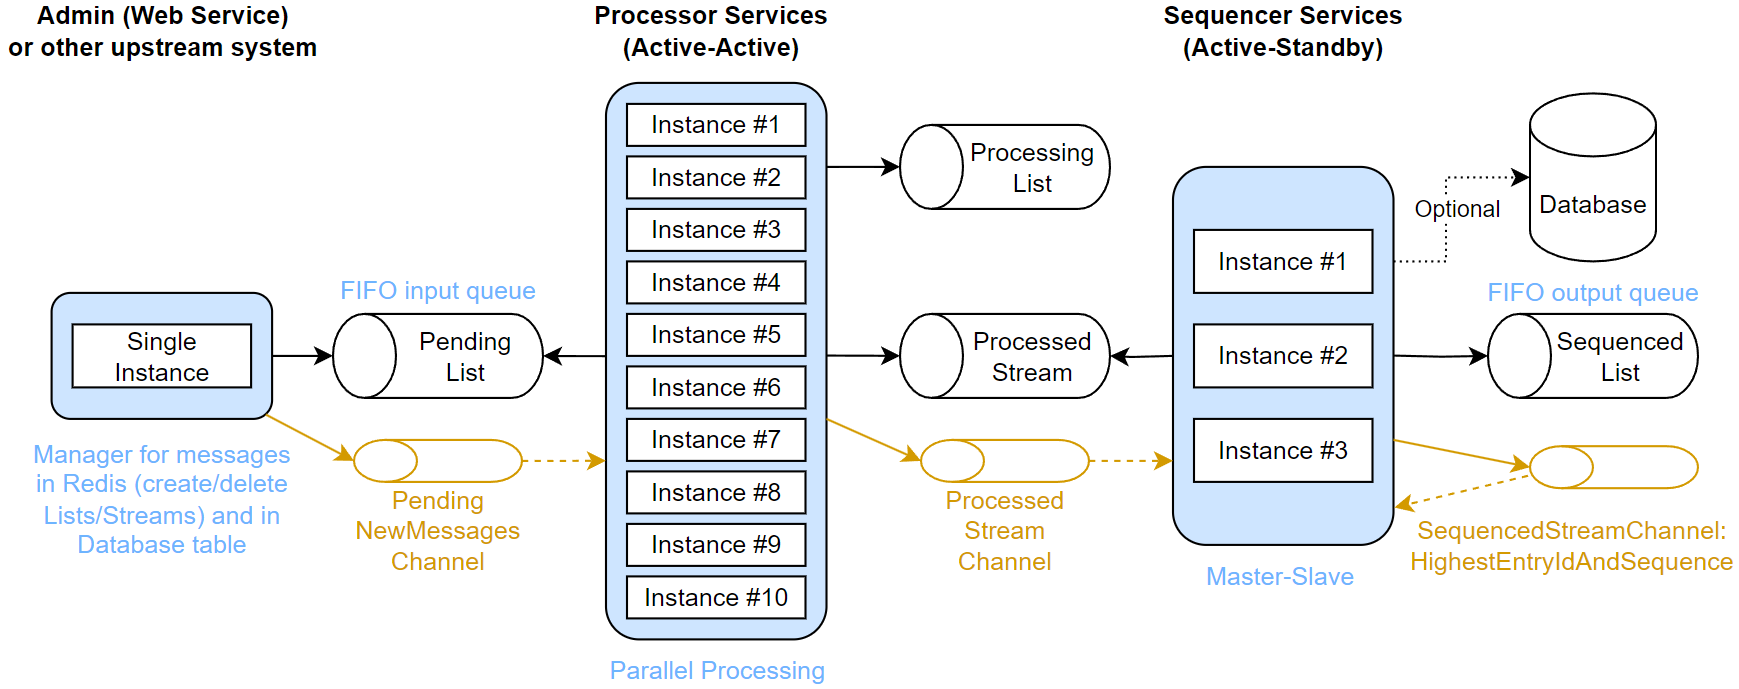
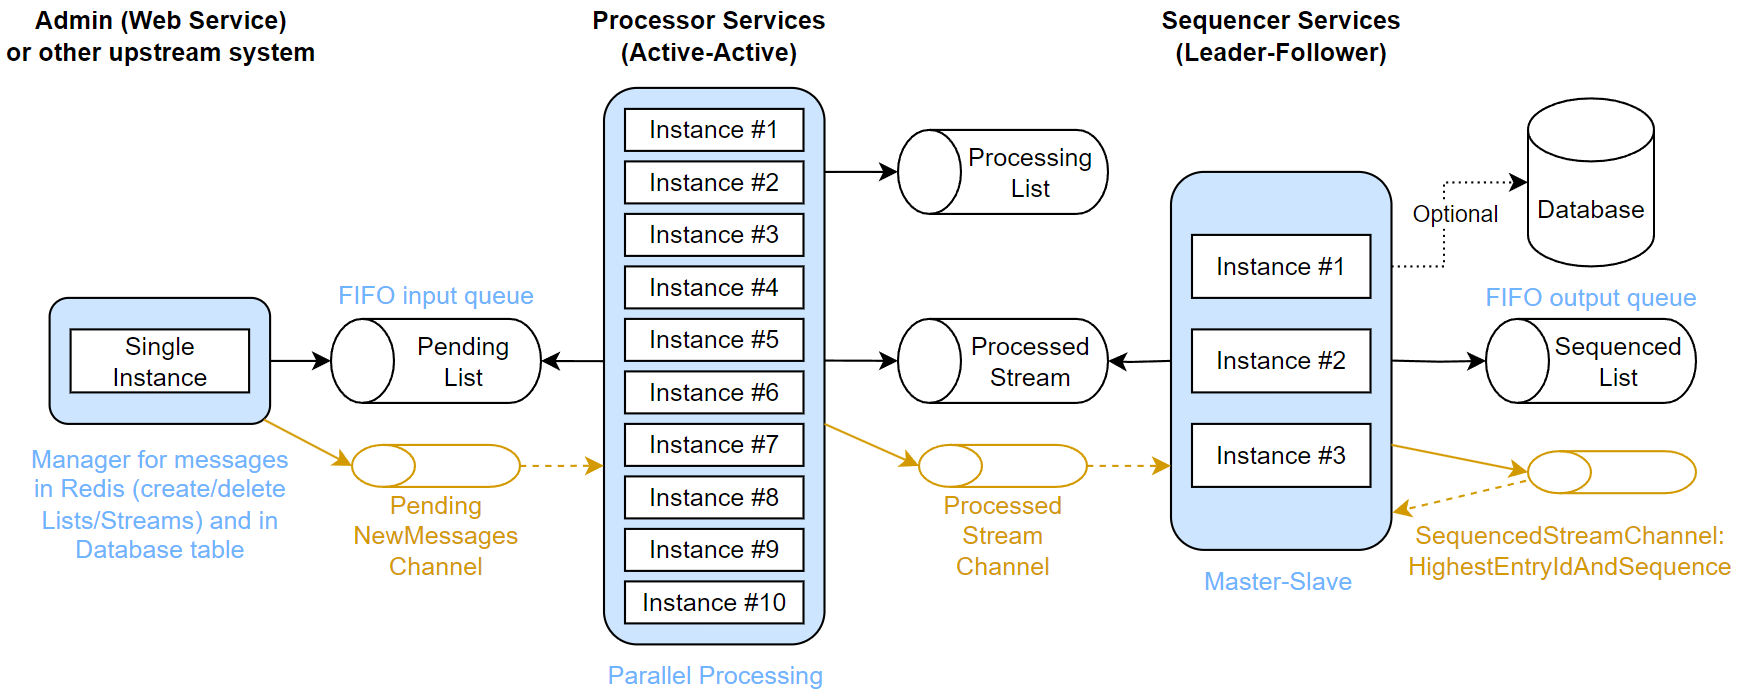
Rename text, files, and variables to Leader-Follower

diff --git a/DataAccessLayers/RedisAccessLayer.Tests/LeaderFollowerFakeBaseTests.cs b/DataAccessLayers/RedisAccessLayer.Tests/LeaderFollowerFakeBaseTests.cs
@@ -3,7 +3,7 @@ using Moq;
 
 namespace RedisAccessLayer.Tests
 {
-    public abstract class MasterSlaveFakeBaseTests : BasicMockTests
+    public abstract class LeaderFollowerFakeBaseTests : BasicMockTests
     {
         protected static string GetTime()
         {
@@ -17,9 +17,9 @@ namespace RedisAccessLayer.Tests
         {
             const int MaxCount = 15;
             var counter = 0;
-            bool? isMaster = null;
+            bool? isLeader = null;
             var defaultLockTime = syncLock.LockExpiry;
-            var lastMasterAttempt = DateTime.MinValue;
+            var lastLeaderAttempt = DateTime.MinValue;
             var releaseLock = false;
             while (counter < MaxCount)
             {
@@ -27,11 +27,11 @@ namespace RedisAccessLayer.Tests
                 {
                    // Acquire lock to ensure a single sequencer works at a specific time
                     bool acquired;
-                    if (!isMaster.HasValue)
+                    if (!isLeader.HasValue)
                     {
                         acquired = await syncLock.AcquireLock();
                     }
-                    else if (isMaster.Value)
+                    else if (isLeader.Value)
                     {
                         var remainingTime = syncLock.RemainingLockTime;
                         acquired = remainingTime > TimeSpan.Zero;
@@ -51,10 +51,10 @@ namespace RedisAccessLayer.Tests
                     }
                     else
                     {
-                        if (DateTime.UtcNow.Subtract(lastMasterAttempt) > TimeSpan.FromMilliseconds(BufferTime))
+                        if (DateTime.UtcNow.Subtract(lastLeaderAttempt) > TimeSpan.FromMilliseconds(BufferTime))
                         {
                             acquired = await syncLock.AcquireLock();
-                            lastMasterAttempt = DateTime.UtcNow;
+                            lastLeaderAttempt = DateTime.UtcNow;
                         }
                         else
                         {
@@ -62,14 +62,14 @@ namespace RedisAccessLayer.Tests
                         }
                     }
 
-                    if (!isMaster.HasValue || isMaster.Value != acquired)
+                    if (!isLeader.HasValue || isLeader.Value != acquired)
                     {
                         //Console.WriteLine($"{GetTime()} AcquireLock={acquired} #{index}");
                     }
 
                     if (acquired == true)
                     {
-                        isMaster = true;
+                        isLeader = true;
                         await Task.Delay(WaitTime);
 
                         if (releaseLock)
@@ -78,13 +78,13 @@ namespace RedisAccessLayer.Tests
                             if (released.HasValue && released.Value)
                             {
                                 releaseLock = false;
-                                isMaster = false;
+                                isLeader = false;
                             }
                         }
                     }
                     else
                     {
-                        isMaster = false;
+                        isLeader = false;
                         await Task.Delay(WaitTime);
                     }
                 }
@@ -97,7 +97,7 @@ namespace RedisAccessLayer.Tests
                     counter++;
                 }
             }
-            return isMaster ?? false;
+            return isLeader ?? false;
         }
     }
 }

diff --git a/DataAccessLayers/RedisAccessLayer/Client/ProcessedListToSequencedListListener.cs b/DataAccessLayers/RedisAccessLayer/Client/ProcessedListToSequencedListListener.cs
@@ -74,10 +74,10 @@ namespace RedisAccessLayer
                 }
             }
 
-            bool? isMaster = null;
+            bool? isLeader = null;
             var lastEntries = Array.Empty<string>();
             var defaultLockTime = syncLock.LockExpiry;
-            var lastMasterAttempt = DateTime.MinValue;
+            var lastLeaderAttempt = DateTime.MinValue;
             var releaseLock = false;
             while (listen == 1)
             {
@@ -85,11 +85,11 @@ namespace RedisAccessLayer
                 {
                    // Acquire lock to ensure a single sequencer works at a specific time
                     bool acquired;
-                    if (!isMaster.HasValue)
+                    if (!isLeader.HasValue)
                     {
                         acquired = await syncLock.AcquireLock();
                     }
-                    else if (isMaster.Value)
+                    else if (isLeader.Value)
                     {
                         var remainingTime = syncLock.RemainingLockTime;
                         acquired = remainingTime > TimeSpan.Zero;
@@ -104,10 +104,10 @@ namespace RedisAccessLayer
                     }
                     else
                     {
-                        if (DateTime.UtcNow.Subtract(lastMasterAttempt) > TimeSpan.FromMilliseconds(BufferTime))
+                        if (DateTime.UtcNow.Subtract(lastLeaderAttempt) > TimeSpan.FromMilliseconds(BufferTime))
                         {
                             acquired = await syncLock.AcquireLock();
-                            lastMasterAttempt = DateTime.UtcNow;
+                            lastLeaderAttempt = DateTime.UtcNow;
                         }
                         else
                         {
@@ -115,14 +115,14 @@ namespace RedisAccessLayer
                         }
                     }
 
-                    if (!isMaster.HasValue || isMaster.Value != acquired)
+                    if (!isLeader.HasValue || isLeader.Value != acquired)
                     {
                         logger.Debug($"AcquireLock={acquired}");
                     }
 
                     if (acquired == true)
                     {
-                        isMaster = true;
+                        isLeader = true;
                         if (string.IsNullOrEmpty(LastProcessedEntryId))
                         {
                             logger.Debug("Set last values explicitly to initialize");
@@ -160,13 +160,13 @@ namespace RedisAccessLayer
                             if (released.HasValue && released.Value)
                             {
                                 releaseLock = false;
-                                isMaster = false;
+                                isLeader = false;
                             }
                         }
                     }
                     else
                     {
-                        isMaster = false;
+                        isLeader = false;
                         await Task.Delay(WaitTime);
                     }
                 }

diff --git a/DataAccessLayers/RedisAccessLayer.Tests/LeaderFollowerFakeAtomicCustomLockTests.cs b/DataAccessLayers/RedisAccessLayer.Tests/LeaderFollowerFakeAtomicCustomLockTests.cs
@@ -4,14 +4,14 @@ using StackExchange.Redis;
 
 namespace RedisAccessLayer.Tests
 {
-    public class MasterSlaveFakeAtomicCustomLockTests : MasterSlaveFakeBaseTests
+    public class LeaderFollowerFakeAtomicCustomLockTests : LeaderFollowerFakeBaseTests
     {
         protected readonly ISyncLock _distributedLock1;
         protected readonly ISyncLock _distributedLock2;
         protected readonly ISyncLock _distributedLock3;
         protected readonly RedisFakeDatabase _redis = new ();
 
-        public MasterSlaveFakeAtomicCustomLockTests()
+        public LeaderFollowerFakeAtomicCustomLockTests()
             : base()
         {
             _distributedLock1 = new AtomicCustomLock(_connectionManager);
@@ -27,7 +27,7 @@ namespace RedisAccessLayer.Tests
         }
 
         [Fact]
-        public async void AcquireLock_OnlyOneMaster_ExtendNearExpiry()
+        public async void AcquireLock_OnlyOneLeader_ExtendNearExpiry()
         {
             // Arrange
             _databaseMock.Setup(db => db.ScriptEvaluateAsync(AtomicCustomLock.AcquireScript, It.IsAny<RedisKey[]>(), It.IsAny<RedisValue[]>(), It.IsAny<CommandFlags>()))
@@ -51,7 +51,7 @@ namespace RedisAccessLayer.Tests
         }
 
         [Fact]
-        public async void AcquireLock_OnlyOneMaster_ReleaseAtIndex()
+        public async void AcquireLock_OnlyOneLeader_ReleaseAtIndex()
         {
             // Arrange
             _databaseMock.Setup(db => db.ScriptEvaluateAsync(AtomicCustomLock.AcquireScript, It.IsAny<RedisKey[]>(), It.IsAny<RedisValue[]>(), It.IsAny<CommandFlags>()))

diff --git a/DataAccessLayers/RedisAccessLayer.Tests/LeaderFollowerFakeSimpleCustomLockTests.cs b/DataAccessLayers/RedisAccessLayer.Tests/LeaderFollowerFakeSimpleCustomLockTests.cs
@@ -4,14 +4,14 @@ using StackExchange.Redis;
 
 namespace RedisAccessLayer.Tests
 {
-    public class MasterSlaveFakeSimpleCustomLockTests : MasterSlaveFakeBaseTests
+    public class LeaderFollowerFakeSimpleCustomLockTests : LeaderFollowerFakeBaseTests
     {
         protected readonly ISyncLock _distributedLock1;
         protected readonly ISyncLock _distributedLock2;
         protected readonly ISyncLock _distributedLock3;
         protected readonly RedisFakeDatabase _redis = new ();
 
-        public MasterSlaveFakeSimpleCustomLockTests()
+        public LeaderFollowerFakeSimpleCustomLockTests()
             : base()
         {
             _distributedLock1 = new SimpleCustomLock(_connectionManager);
@@ -27,7 +27,7 @@ namespace RedisAccessLayer.Tests
         }
 
         [Fact]
-        public async void AcquireLock_OnlyOneMaster_ExtendNearExpiry()
+        public async void AcquireLock_OnlyOneLeader_ExtendNearExpiry()
         {
             // Arrange
             _databaseMock.Setup(db => db.StringSetAsync(It.IsAny<RedisKey>(), It.IsAny<RedisValue>(), It.IsAny<TimeSpan>(), It.IsAny<When>(), It.IsAny<CommandFlags>()))
@@ -49,7 +49,7 @@ namespace RedisAccessLayer.Tests
         }
 
         [Fact]
-        public async void AcquireLock_OnlyOneMaster_ReleaseAtIndex()
+        public async void AcquireLock_OnlyOneLeader_ReleaseAtIndex()
         {
             // Arrange
             _databaseMock.Setup(db => db.StringSetAsync(It.IsAny<RedisKey>(), It.IsAny<RedisValue>(), It.IsAny<TimeSpan>(), It.IsAny<When>(), It.IsAny<CommandFlags>()))

diff --git a/DataAccessLayers/RedisAccessLayer.Tests/LeaderFollowerFakeNativeLockTests.cs b/DataAccessLayers/RedisAccessLayer.Tests/LeaderFollowerFakeNativeLockTests.cs
@@ -4,14 +4,14 @@ using StackExchange.Redis;
 
 namespace RedisAccessLayer.Tests
 {
-    public class MasterSlaveFakeNativeLockTests : MasterSlaveFakeBaseTests
+    public class LeaderFollowerFakeNativeLockTests : LeaderFollowerFakeBaseTests
     {
         protected readonly ISyncLock _distributedLock1;
         protected readonly ISyncLock _distributedLock2;
         protected readonly ISyncLock _distributedLock3;
         protected readonly RedisFakeDatabase _redis = new ();
 
-        public MasterSlaveFakeNativeLockTests()
+        public LeaderFollowerFakeNativeLockTests()
             : base()
         {
             _distributedLock1 = new NativeLock(_connectionManager);
@@ -27,7 +27,7 @@ namespace RedisAccessLayer.Tests
         }
 
         [Fact]
-        public async void AcquireLock_OnlyOneMaster_ExtendNearExpiry()
+        public async void AcquireLock_OnlyOneLeader_ExtendNearExpiry()
         {
             // Arrange
             _databaseMock.Setup(db => db.LockTakeAsync(It.IsAny<RedisKey>(), It.IsAny<RedisValue>(), It.IsAny<TimeSpan>(), It.IsAny<CommandFlags>()))
@@ -54,7 +54,7 @@ namespace RedisAccessLayer.Tests
         }
 
         [Fact]
-        public async void AcquireLock_OnlyOneMaster_ReleaseAtIndex()
+        public async void AcquireLock_OnlyOneLeader_ReleaseAtIndex()
         {
             // Arrange
             _databaseMock.Setup(db => db.LockTakeAsync(It.IsAny<RedisKey>(), It.IsAny<RedisValue>(), It.IsAny<TimeSpan>(), It.IsAny<CommandFlags>()))

diff --git a/DataAccessLayers/RedisAccessLayer/Locks/LockBase.cs b/DataAccessLayers/RedisAccessLayer/Locks/LockBase.cs
@@ -15,7 +15,7 @@ namespace RedisAccessLayer
         {
             var channelPrefix = EnvVarReader.GetString("REDIS_CHANNEL_PREFIX", EnvVarReader.NotFound);
             var prefix = channelPrefix != EnvVarReader.NotFound ? string.Concat("{", channelPrefix, "}:") : string.Empty;
-            lockKey = prefix + "sequencer-master";
+            lockKey = prefix + "sequencer-leader";
             lockValue = this.ClientName + "_" + Guid.NewGuid().ToString();
             lockExpiry = DefaultLockExpiry;
         }

diff --git a/README.md b/README.md
@@ -30,9 +30,9 @@ Design and implement a message processing system that is resilient, performant, 
 1. ElastiCache Serverless Redis providing 99.99% availability SLA
 2. Develop clients in C# .NET Core 8.0 referencing StackExchange.Redis and Npgsql libraries
 3. Deploy multiple active-active instances of a Processing service reading from an input List and writing to a Stream
-4. Deploy a few master-slave instances of a Sequencing service reading from the Stream and writing to an output List
-5. Implement master-slave with a distributed lock in Redis having expiry time of 1 second allowing very fast switch
-6. Keep the slaves constantly ready to be master and continuously requesting ownership of the distributed lock
+4. Deploy a few leader-follower instances of a Sequencing service reading from the Stream and writing to an output List
+5. Implement leader-follower with a distributed lock in Redis having expiry time of 1 second allowing very fast switch
+6. Keep the followers constantly ready to be the leader and continuously requesting ownership of the distributed lock
 7. Utilize Redis Pub/Sub with channels to limit short polling requests
 8. Leverage Lua scripts and transactions to ensure good performances
 9. Implement idempotency in Redis for performance considerations
@@ -69,7 +69,7 @@ Locks
 
 1. The input FIFO queue (Pending List) is where messages are stored and retrieved by the processors
 2. The Processor services (Active-Active) perform parallel processing of messages from the input FIFO queue (can be scaled as needed) then write processed messages to a Processed Stream
-3. The Sequencer services (Active-Standby/Masters-Slave) are responsible for maintaining the original sequence order of the messages. They read messages from the Processed Stream and write them to an output FIFO queue (Sequenced List), ensuring the original sequence order is preserved
+3. The Sequencer services (Active-Standby/Leader-Follower) are responsible for maintaining the original sequence order of the messages. They read messages from the Processed Stream and write them to an output FIFO queue (Sequenced List), ensuring the original sequence order is preserved
 4. Operations on Lists and Streams are follow by the publication of events on channels to avoid many unwanted short pollings requests by services
 5. A database can be used as the system of record for storing processed messages (much slower than saving into Redis so it has been made optional)
 
